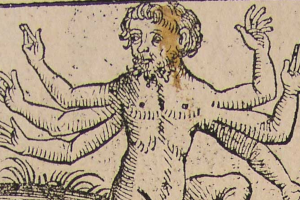
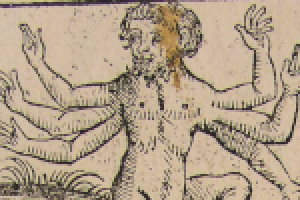
add background image

diff --git a/src/components/GodCard/GodCard.scss b/src/components/GodCard/GodCard.scss
@@ -36,7 +36,7 @@ $Sky: rgb(241,156,66);
     }
 
     .godImg {
-        border: 2px black solid;
+        border: 4px black solid;
         // border-radius: 8px;
 
     }
@@ -60,7 +60,7 @@ $Sky: rgb(241,156,66);
         width: 24px;
         margin-left: 12px;
         margin-right: 12px;
-        margin-top: 4px;
+        // margin-top: 2px;
         background-color: white;
 
         &:hover{

diff --git a/src/components/App/App.scss b/src/components/App/App.scss
@@ -7,7 +7,9 @@
 }
 
 body {
-    background-color: dimgrey;
+    background-image: url('../../../public/images/Olympus.png');
+    background-size: 100% 100%;
+    border-bottom: 4px solid black;
 }
 
 @font-face {

diff --git a/src/components/MonsterCard/MonsterCard.scss b/src/components/MonsterCard/MonsterCard.scss
@@ -42,7 +42,7 @@
     }
 
     .monsterImg {
-        border: 2px black solid;
+        // border: 2px black solid;
         // border-radius: 8px;
         height: 180px;
         width: 320px;
